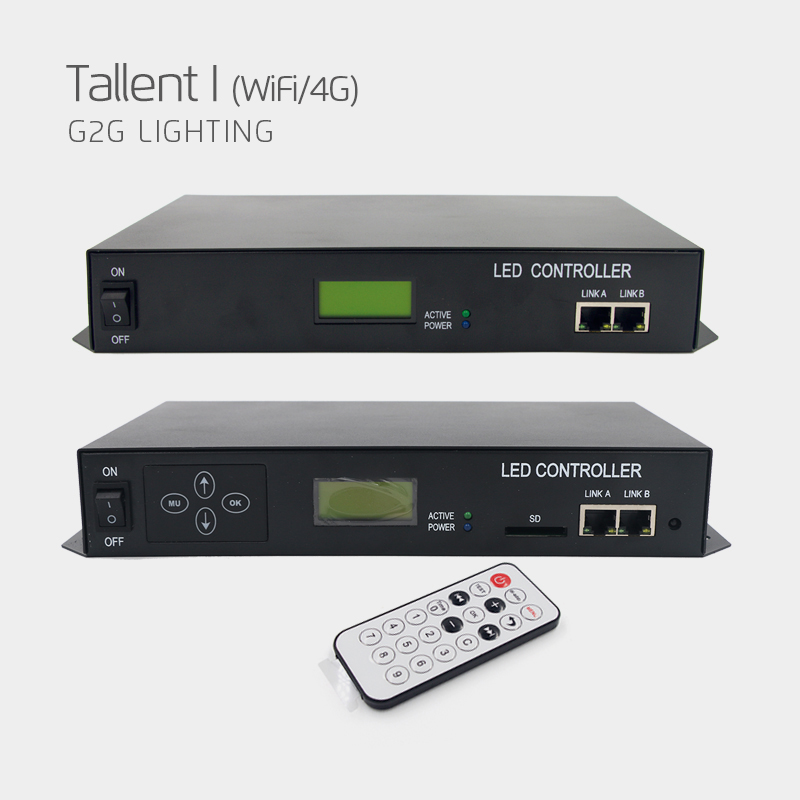
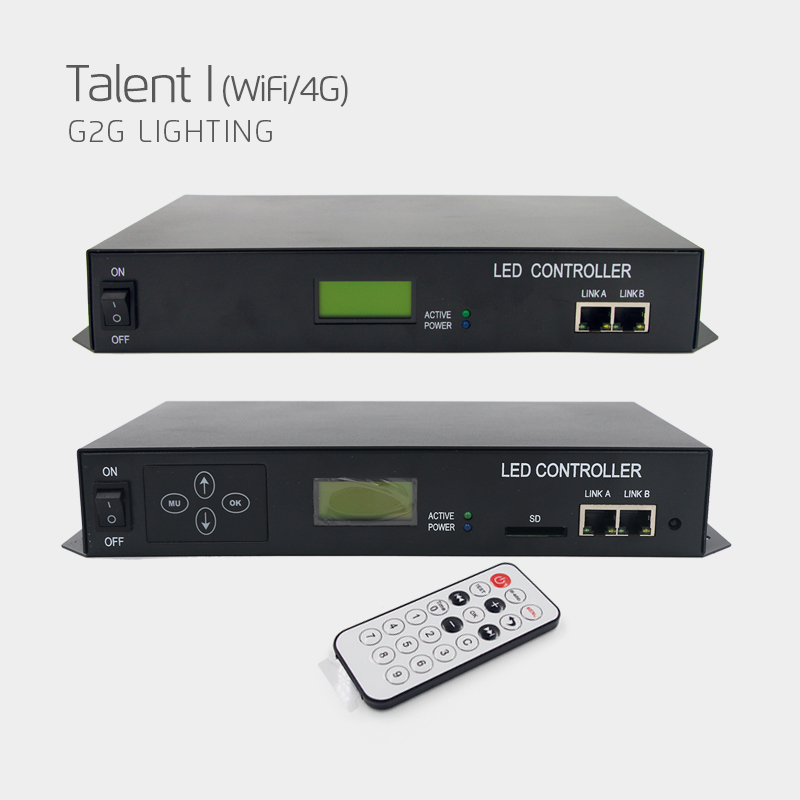
add all

Changed region(s): [[0.125, 0.0625, 0.4688, 0.125]]

diff --git a/product-list.html b/product-list.html
@@ -94,7 +94,7 @@
           <li><a ng-click="filterProducts('controller','wifi300')" class="btn btn-default" ng-class="{active:cid == 'wifi300'}" >Wifi 300</a></li>
           <li><a ng-click="filterProducts('controller','rf3keys')" class="btn btn-default" ng-class="{active:cid == 'RF3Keys'}" >RF Dimmer</a></li>
           <li><a ng-click="filterProducts('controller','knod')" class="btn btn-default" ng-class="{active:cid == 'knod'}" >Knob Dimmer</a></li>
-          <li><a ng-click="filterProducts('controller','taleni')" class="btn btn-default" ng-class="{active:cid == 'taleni'}" >Talent I</a></li>
+          <li><a ng-click="filterProducts('controller','talenti')" class="btn btn-default" ng-class="{active:cid == 'talenti'}" >Talent I</a></li>
       </ul>
       <!--<ul ng-show="pid=='power'" class="portfolio-filter text-center">
           <li><a ng-click="filterProducts('power','')" class="btn btn-default" ng-class="{active:cid == 'all'}" >All</a></li>

diff --git a/home.html b/home.html
@@ -92,7 +92,7 @@ This design offers an energy efficient and cost effective solution to sign light
 							<img class="bgImg img-responsive" src="images/slider5.png" alt="talent i">
 							<div class="carousel-caption banner-letter banner-talent">
 						
-								<h3>Tallent I</h3>
+								<h3>Talent I</h3>
 								<h4>(WIFI/4G)</h4>
 								
 								
